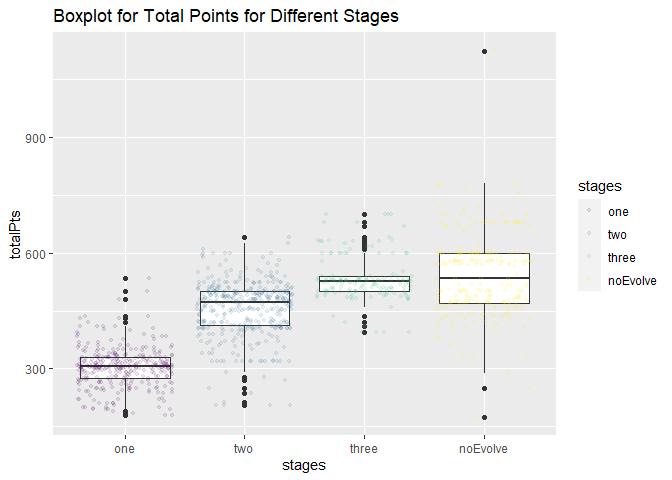
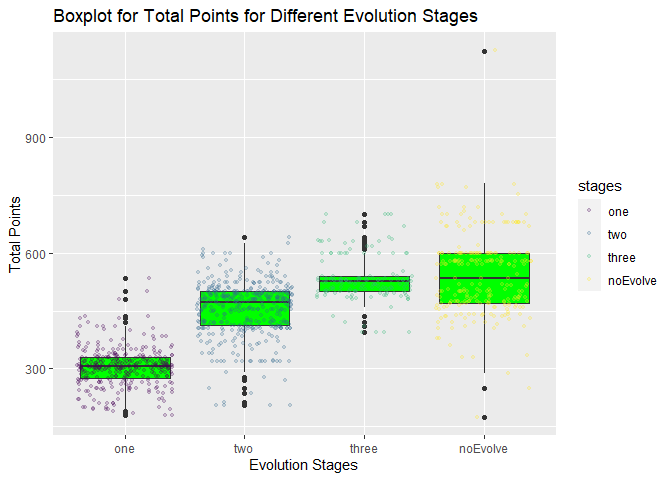
added colors

diff --git a/README.md b/README.md
@@ -637,10 +637,16 @@ Contingency Table of Generation by Common Status
 
 
 g <- ggplot(combinePoke, aes(x = stages, y = totalPts))
-g + geom_boxplot() + geom_point((aes(color = stages)), size=1,position = "jitter",alpha = 0.1) + labs(title = "Boxplot for Total Points for Different Stages")
+g + geom_boxplot(fill="green1") + geom_point((aes(color = stages)), size=1,position = "jitter",alpha = 0.2) + labs(x="Evolution Stages", y="Total Points",  title = "Boxplot for Total Points for Different Evolution Stages")
 ```
 
 ![](images/Box%20Plot-1.png)<!-- -->
+
+``` r
+g + geom_boxplot(fill="green1") + labs(x="Evolution Stages", y="Total Points",  title = "Boxplot for Total Points for Different Evolution Stages")
+```
+
+![](images/Box%20Plot-2.png)<!-- -->
 
 ``` r
 head(allPoke)
